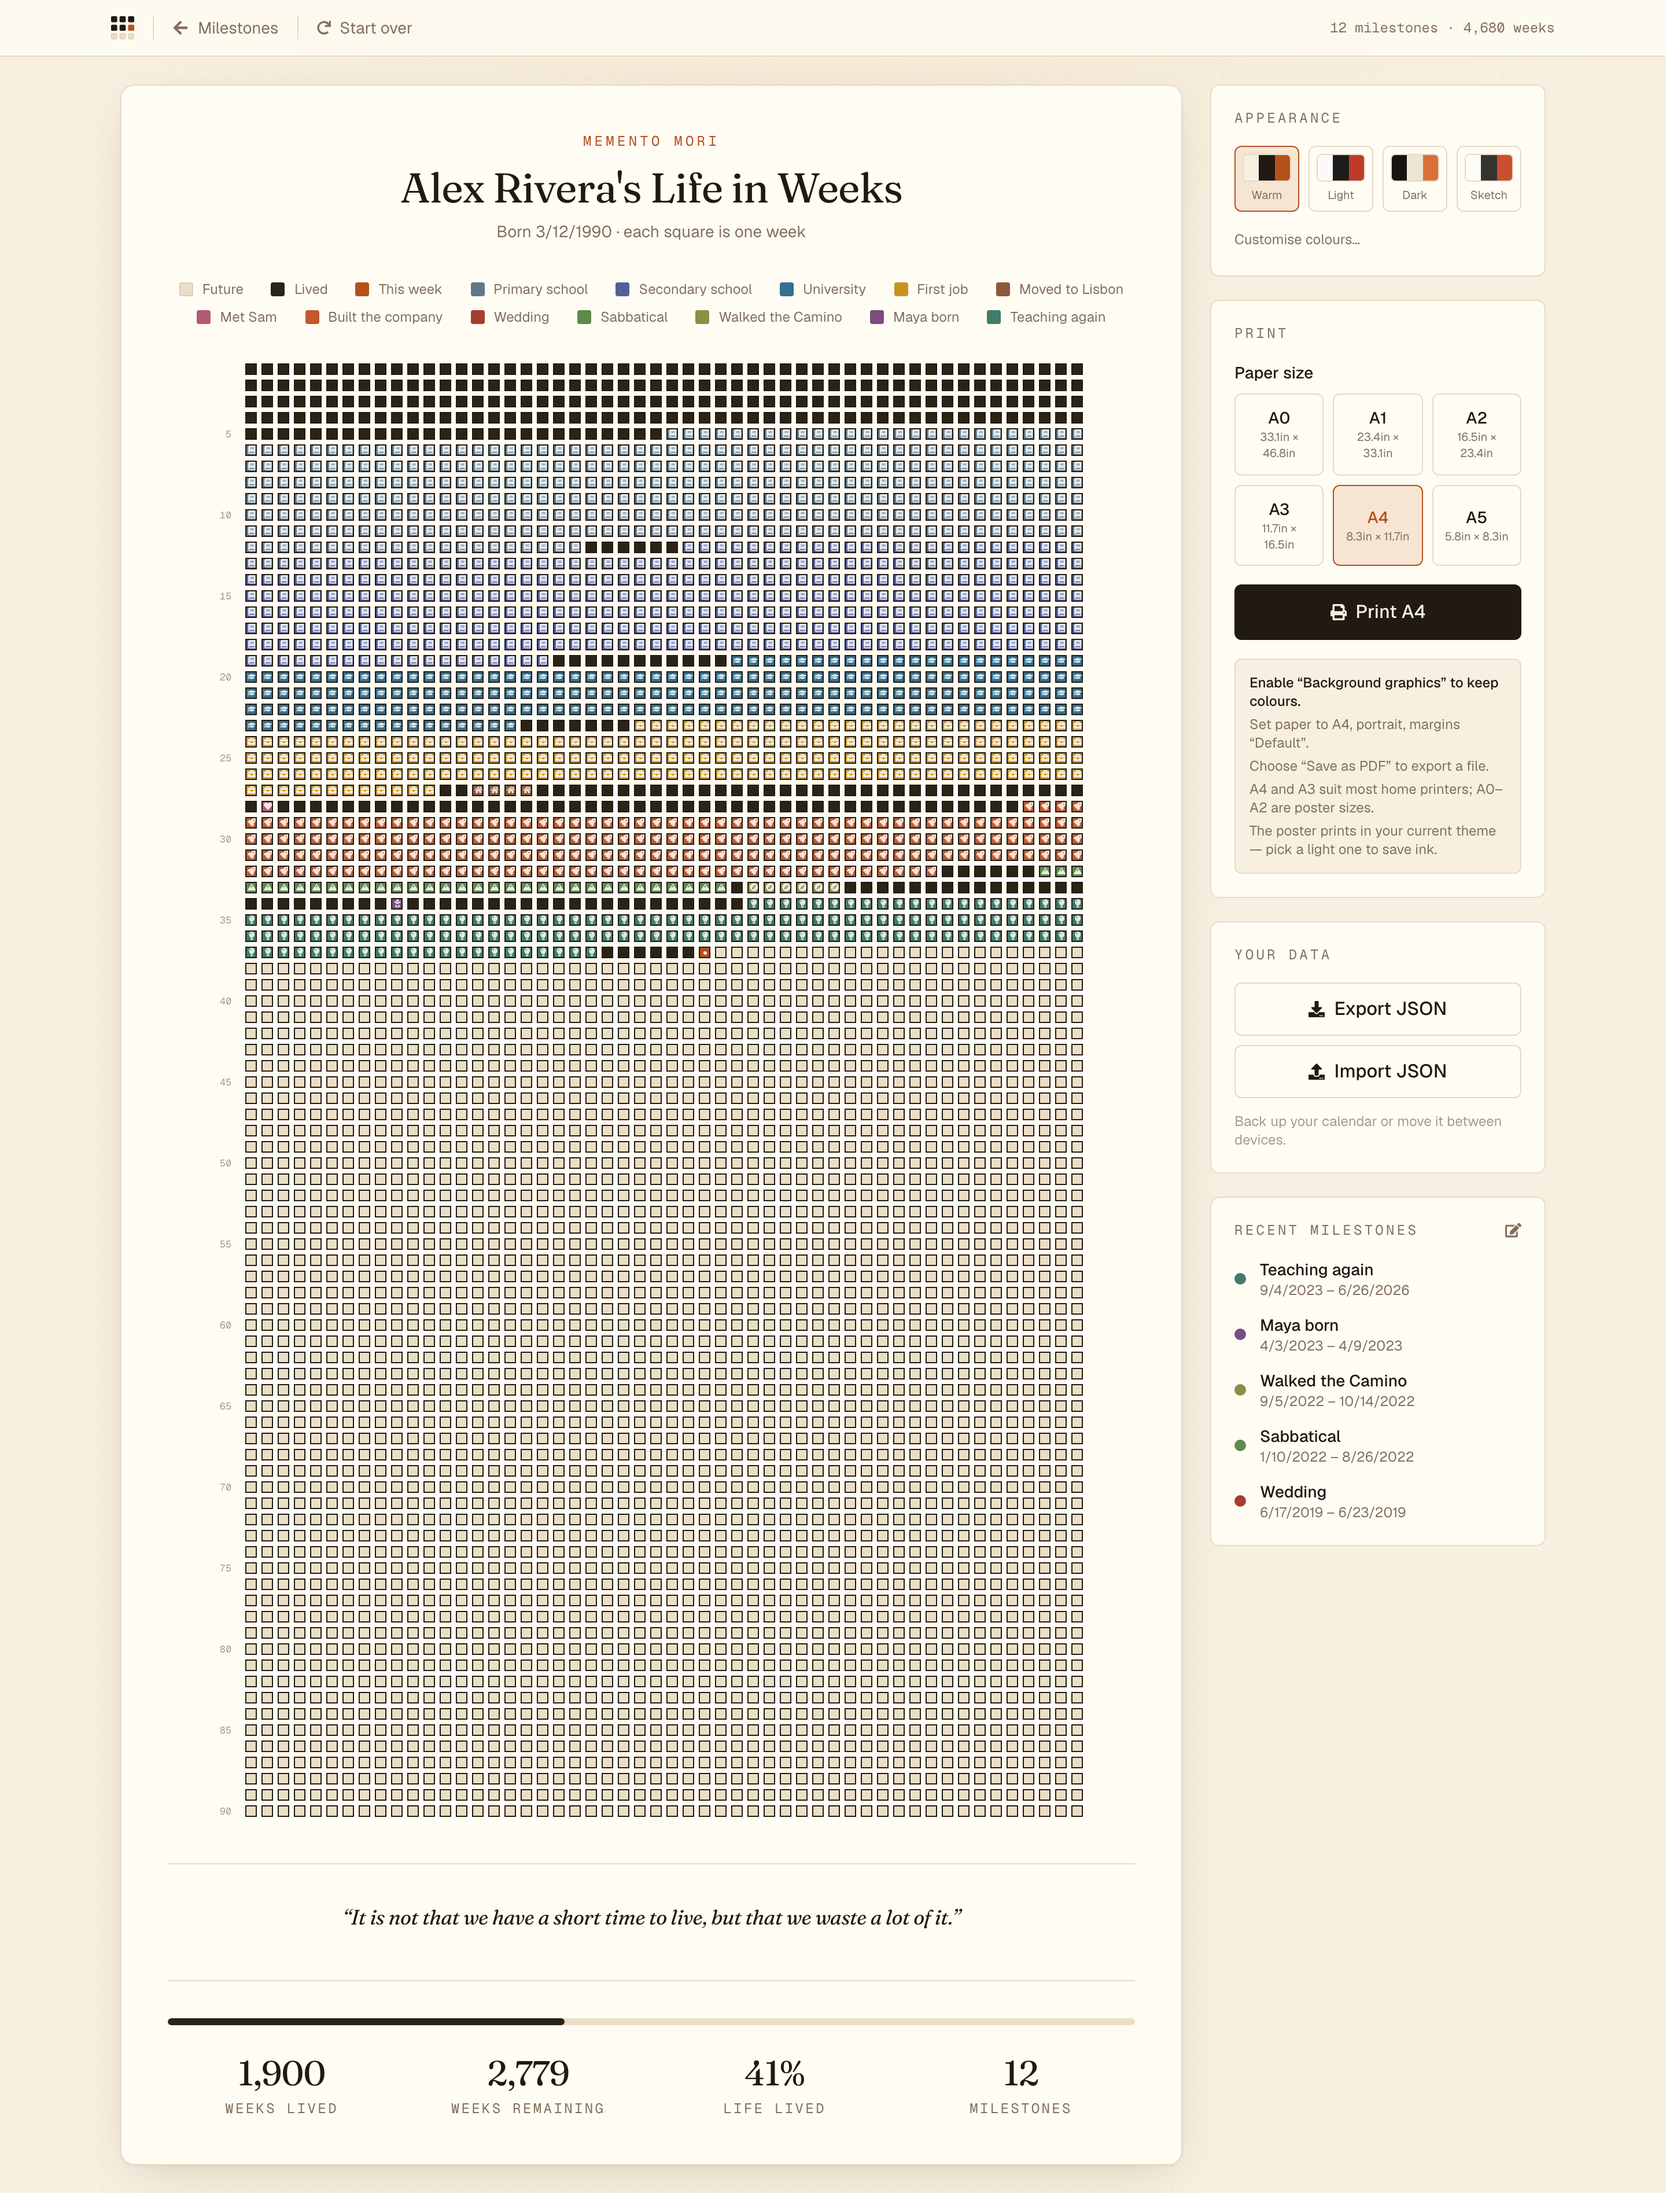
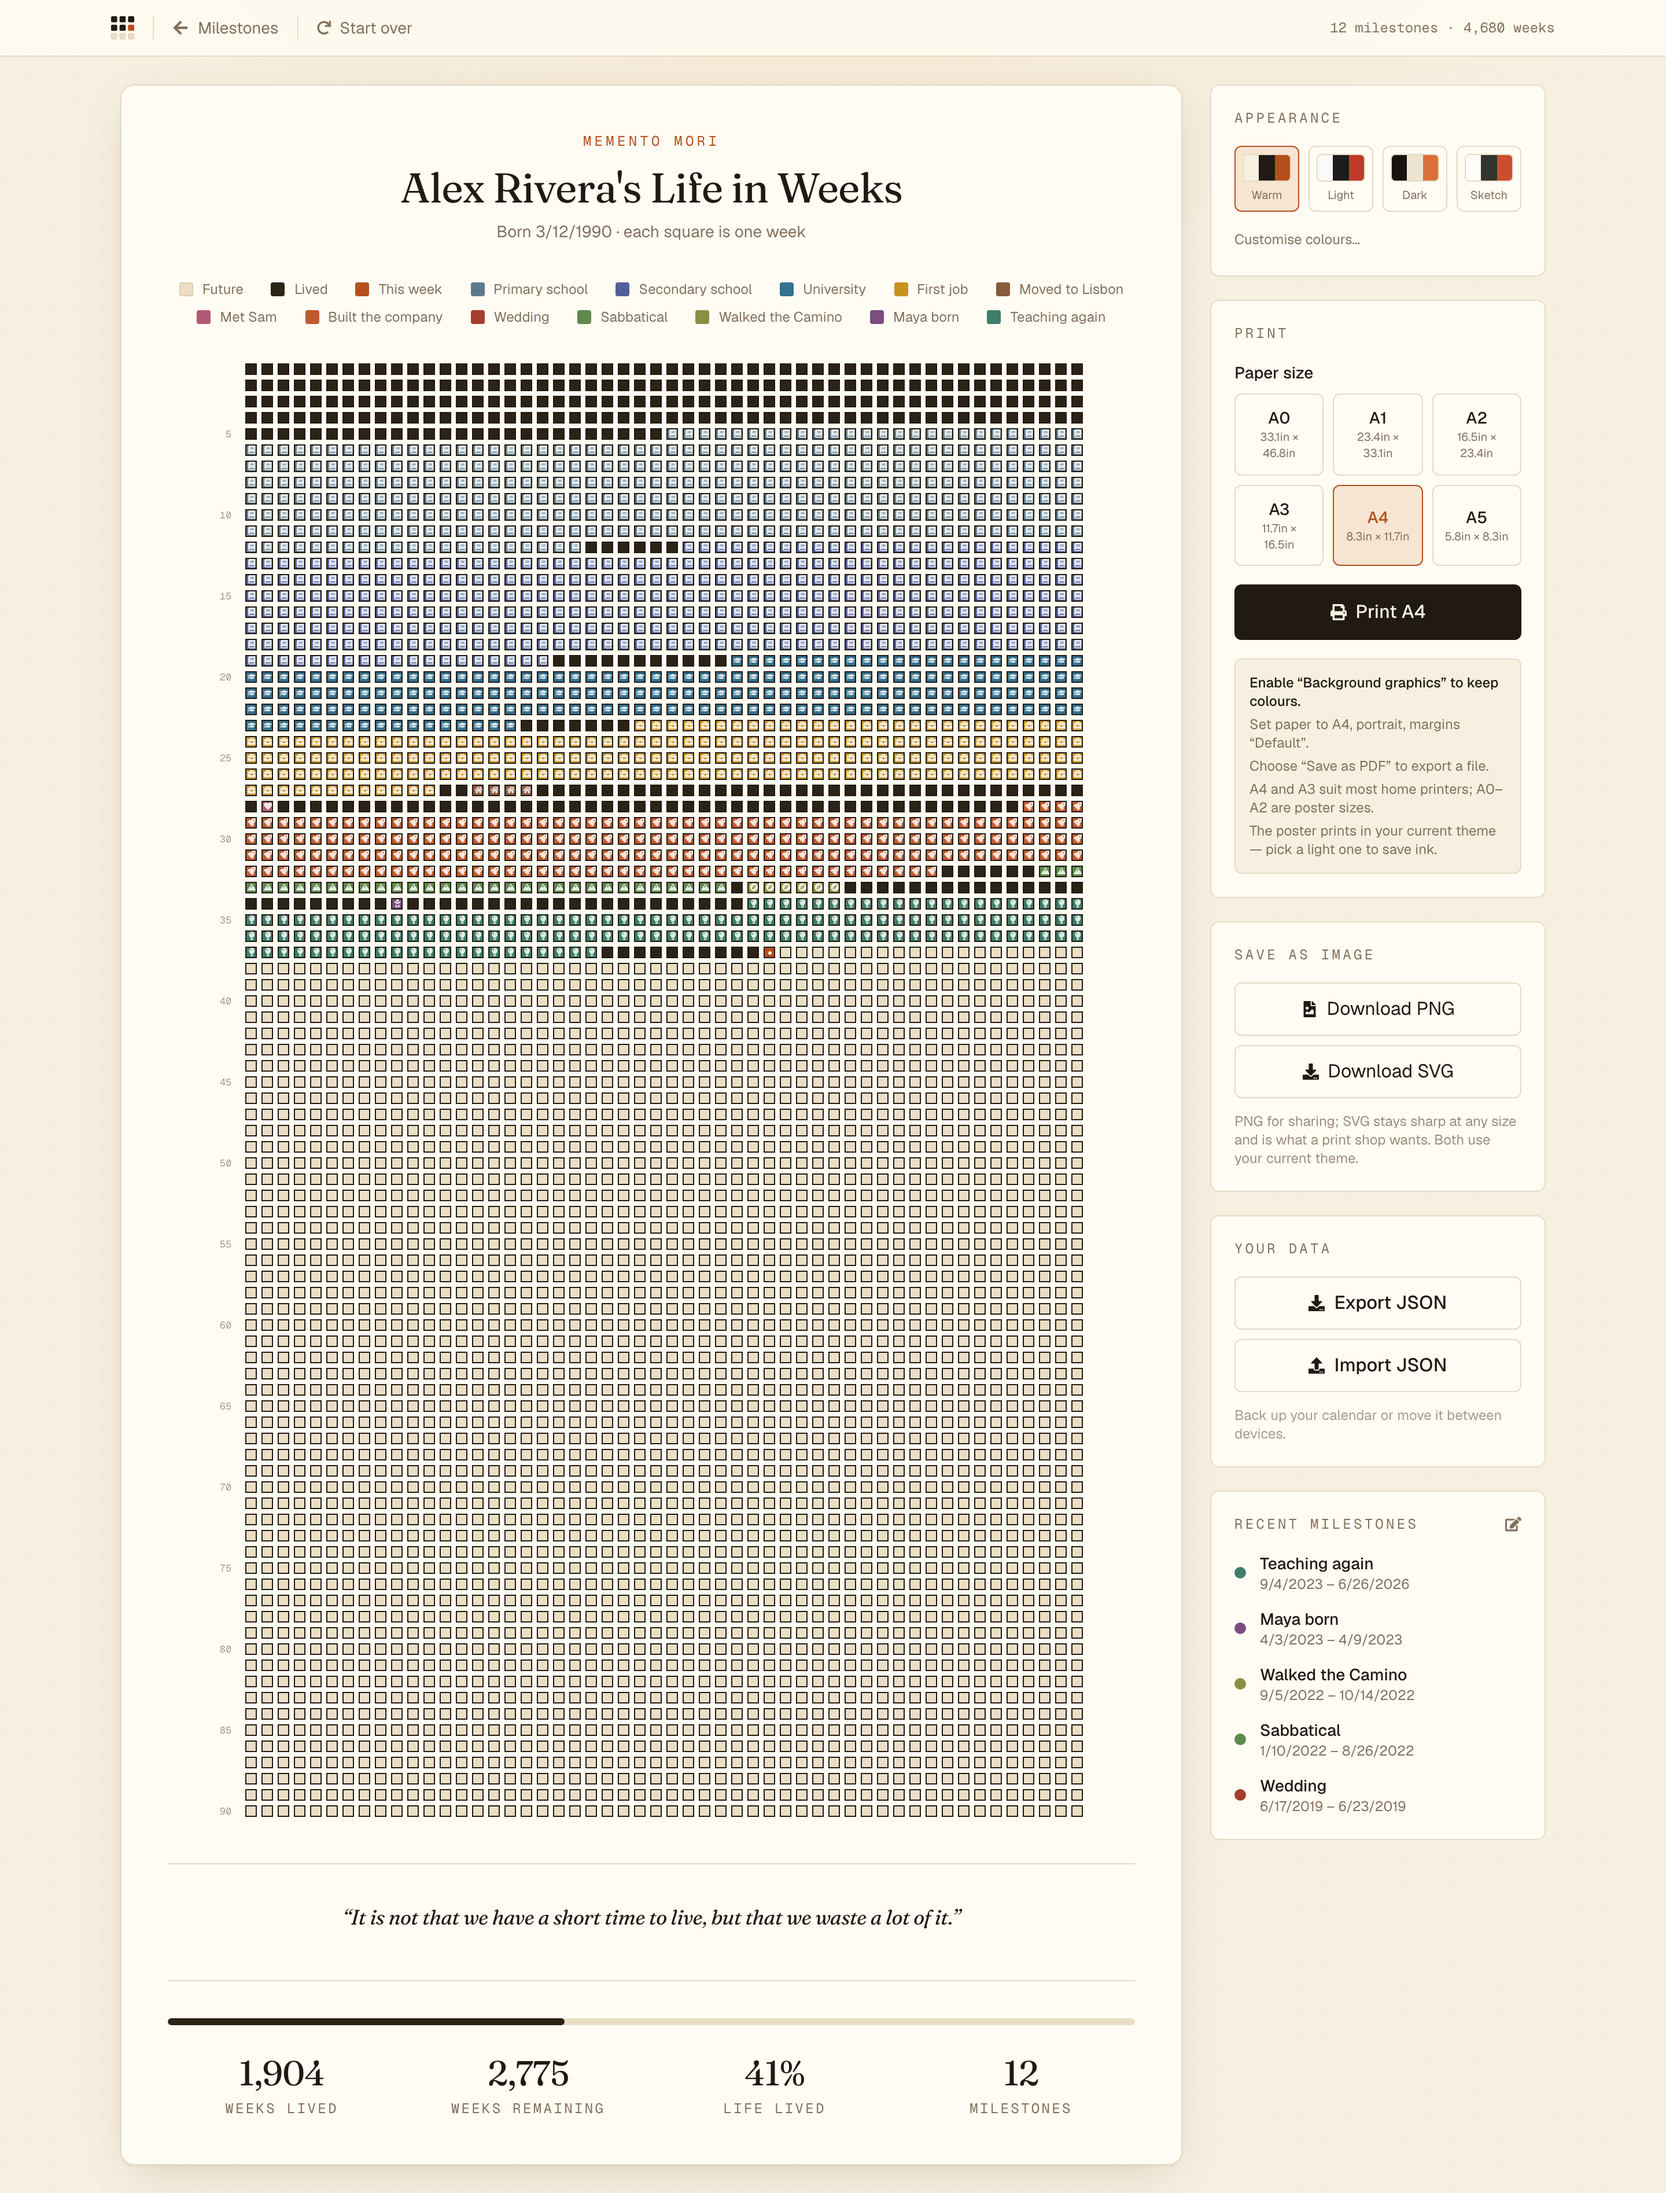
docs: cover image export and refresh the screenshots
README gains the PNG/SVG export and the responsive grid in its
highlights, an "Exporting and printing" section explaining why the SVG is
a real vector rather than a screenshot, and posterExport.ts in the
project layout. The "good first contribution" list drops the items that
are now done and points at grid keyboard navigation instead.

CONTRIBUTING's print principle now covers export too, with the trap
worth knowing: posterExport.ts builds the poster from the week data
independently of the DOM, so a change to the grid does not automatically
reach it and both need checking.

Screenshots regenerated — the calendar view now shows the Save as image
panel.

Claude-Session: https://claude.ai/code/session_012w4H8yUgXGutNNPx93fRp8

Changed region(s): [[0.7188, 0.4359, 0.875, 0.8406], [0.1562, 0.934, 0.1875, 0.9652]]

diff --git a/README.md b/README.md
@@ -41,6 +41,10 @@ Inspired by Tim Urban's [*Your Life in Weeks*](https://waitbutwhy.com/2014/05/li
 - **Four themes, fully recolourable.** Warm, Light, Dark, and Sketch presets,
   plus per-token colour overrides for background, ink, accent, and each of the
   three week states.
+- **Export as PNG or SVG.** Share it as an image, or hand a print shop a real
+  vector that stays sharp at any size. Both use your current theme.
+- **Fits any screen.** The whole 90-year grid is visible on a phone — no
+  sideways scrolling to reach the last decade.
 - **Portable data.** Export and import the whole calendar as JSON.
 
 ## Screens
@@ -114,9 +118,13 @@ Wedding day,2019-05-18,,#a63d2f,Marriage
 Trip to Japan,2022-04-02,2022-04-16,,Plane
 ```
 
-### Printing
+### Exporting and printing
 
-Pick a size in the print panel and hit print. Two things matter for a good
+**Save as image** produces a PNG for sharing or an SVG for print. The SVG is
+generated from the week data rather than screenshotted, so it is a true vector
+— a few hundred KB that scales to a wall poster without softening.
+
+For paper, pick a size in the print panel and hit print. Two things matter for a good
 result: enable **Background graphics** in the browser print dialog, or every
 square comes out white; and remember the poster prints in whatever theme is
 active, so a light theme will save a lot of ink. A4 and A3 suit home printers;
@@ -139,6 +147,7 @@ src/
     ├── dateCalculations.ts  # Birth-relative week maths
     ├── csv.ts               # CSV parse + per-row validation
     ├── icons.ts             # Milestone icon catalogue + name lookup
+    ├── posterExport.ts      # Poster as SVG, and SVG rasterised to PNG
     ├── printStyles.ts       # Per-paper-size @media print rules
     ├── themes.ts            # Theme presets, init script, external store
     ├── localStorage.ts      # Save/load/export/import
@@ -184,8 +193,8 @@ Contributions are welcome — see [CONTRIBUTING.md](CONTRIBUTING.md) for setup,
 conventions, and what makes a PR easy to merge. Everyone taking part is
 expected to follow the [Code of Conduct](CODE_OF_CONDUCT.md).
 
-Good places to start: more icons, additional theme presets, accessibility
-improvements to the grid, and export formats beyond print (SVG, PNG).
+Good places to start: more icons, additional theme presets, keyboard navigation
+for the grid, and further export formats such as ICS.
 
 To report a security issue, please follow [SECURITY.md](SECURITY.md) rather
 than opening a public issue.

diff --git a/CONTRIBUTING.md b/CONTRIBUTING.md
@@ -40,7 +40,7 @@ new pure module, it belongs under test too.
 - Accessibility improvements to the forms and controls
 - Print and layout fixes for edge cases (very long names, 100-year spans,
   dozens of overlapping events)
-- Export formats beyond print: SVG, PNG, ICS
+- Further export formats, such as ICS
 - Documentation, including a real screenshot for the README
 
 **Please open an issue first if you're planning to**
@@ -61,9 +61,11 @@ These constraints explain most of the design decisions in the codebase:
 1. **Local-first, always.** No data leaves the browser. No accounts, no
    servers, no analytics, no third-party requests at runtime. A PR that adds
    one will be declined.
-2. **It has to print.** The screen view is secondary to the printed poster.
-   If a change affects layout, check it at both A4 and A0 with **Background
-   graphics** enabled.
+2. **It has to print, and it has to export.** The screen view is secondary to
+   the printed poster. If a change affects layout, check it at both A4 and A0
+   with **Background graphics** enabled, and check the SVG export still opens
+   — `src/utils/posterExport.ts` builds that independently of the DOM, so a
+   change to the grid does not automatically reach it.
 3. **Few dependencies.** The current list is short on purpose. Prefer ~30 lines
    of plain code over a package — the CSV parser in `src/utils/csv.ts` is a
    deliberate example.
